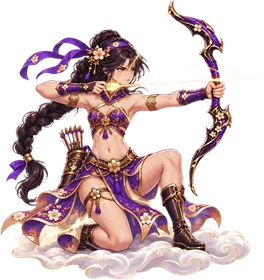
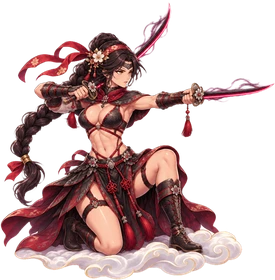
기획 19 개정(그림자 쌍검·공격 모션) + 그림: 쌍검 게임 그림 aw1p·칼 탄 dl_sword·각성 일러스트 aw1
Claude-Session: https://claude.ai/code/session_01X3WCR5nTXLkTaQuYbPMPiQ

diff --git a/game-design/19_달래각성_그림자칼날.md b/game-design/19_달래각성_그림자칼날.md
@@ -1,4 +1,22 @@
-# 그믐: 달을 훔친 자 · 기획 19. 달래 각성 「그림자 칼날」
+# 그믐: 달을 훔친 자 · 기획 19. 달래 각성 「그림자 칼날」→「그림자 쌍검」
+
+# ※ 개정 (11/21, 사용자 확정) — 이 절이 아래 본문보다 우선
+- **무기: 그림자 쌍검.** 활이 손잡이에서 갈라져 살짝 휜 외날 검 두 자루(검은 강철, 진홍으로 빛나는 날, 코등이에 꽃 하나). 부메랑 칼날·그림자 실 디자인은 폐기.
+- **각성 의상: 검정 + 진홍 자객풍**(교차 끈 가슴가리개, 한쪽 어깨 망토 + 진홍 목도리, 앞트임 층진 짧은 치마 + 매듭 끈, 손등 덮개, 끈 장화, 이마 가리개). 노출은 원본 수준. 얼굴·몸매·피부톤·그림체는 원본 고정.
+- **그림**: 각성 순간 일러스트 `art/달래각성_쌍검/T3_wide_stance.webp` → 게임 `aw1` / 게임 그림 `aw1p`(오른쪽 보는 쌍검 대기 자세) / 칼 탄 `dl_sword`.
+- 게임은 왼→오 진행이라 정면 일러스트는 각성 순간 1.2초에만. 싸우는 동안은 오른쪽 보는 `aw1p` 한 장을 코드로 움직임(벨 때 앞으로 튀어나가며 기울기, 칼 궤적은 효과, 돌진 잔상 3겹).
+
+| 공격 | 버튼 | 내용 |
+|---|---|---|
+| 기본 공격 | 자동 | 오른쪽으로 **진홍 반달 칼바람** 0.3초마다. 왼손·오른손이 번갈아 위아래로 엇갈려 X자로 날아감. 꿰뚫음 |
+| 칼 던지기 | 자동 1.5초마다 | `dl_sword` 를 회전시켜 화면 가운데까지 던졌다가 돌아옴(갈 때·올 때 맞힘). 그림자 실 없음 |
+| 그림자 돌진 | 스킬 | 두 칼 엇갈려 쥐고 화면 오른쪽 끝까지 0.35초, 무적, 지나간 자리 붉은 베기 자국 0.3초 뒤 2타 |
+| 표식 터뜨리기 | 자동 | 칼바람·칼이 표식 닿으면 폭발, 각성 +0.3초(최대 +2) |
+| 끝 | | 두 칼이 합쳐져 활 → 그림자 화살 한 발 |
+수치(`AWK_DL`): throwGap 대신 `waveGap: 0.3, waveDmg: 1.0, swordGap: 1.5, sword: 1.5` 추가, `thread` 삭제. 나머지 그대로.
+
+---
+
 
 대상 코드: 브랜치 `claude/amazing-johnson-jj1z6o` (기획 17-6 각성 모습·각성판 스킬 위에 얹음)
 그림: `art/달래각성_그림자칼날/` (사용자 확정 11/21)

diff --git a/game-design/art/달래각성_쌍검/README.md b/game-design/art/달래각성_쌍검/README.md
@@ -5,3 +5,6 @@
 - `T2_twinswords_stance`: 다리 자세는 원본 그대로, 팔만 쌍검 자세로(오른손 정방향 앞으로 겨눔, 왼손 칼 뒤로 낮게, 얼굴 가리지 않음). 참고 = 원본(그림체) + T1(옷·칼만). job 2e18b327-374f-46e6-b045-4832228b687f — 검토 중
 - 사용자 판정(T2): 손·몸·다리 구도가 틀림 → 사용자 첨부 그림(쌍칼 자세)의 몸 구도만 참고, 옷은 유지
 - `T3_wide_stance`: 정면으로 다리를 넓게 벌리고 선 채 두 팔을 아래·바깥으로 뻗어 칼을 바깥 위로 세움. 무릎 위로 자름(원본 배율). 참고 = 원본(그림체·얼굴·몸) + T2(옷·칼) + 자세 참고 그림(61982cc4, 자세만). job cd212785-1b4d-4269-875f-50fc951eff9a — 검토 중
+- 사용자 판정(T3): 괜찮음 → 각성 순간 일러스트 확정 = `../게임용/aw1.webp`
+- 게임 그림 `../게임용/aw1p.webp`(280px)/`aw1p_hi.webp`: 첫 참고 원본 게임 그림 hp1_o0, 옷·칼 T3. 오른쪽 보고 무릎 꿇은 쌍검 대기 자세(앞손 칼 앞으로, 뒷손 칼 어깨 뒤로). 1차(43c407ab)는 손 없는 칼이 떠 있어 버림. job e30a22b9-3b71-4f9e-bd19-e0bba6b54e6d, 배경 제거 73c69b69 + 구름은 원본 픽셀로 살림
+- 칼 탄 `../게임용/dl_sword.webp`: aw1p 앞손 칼을 픽셀 그대로 잘라 냄(코등이~날 끝, 가로)
